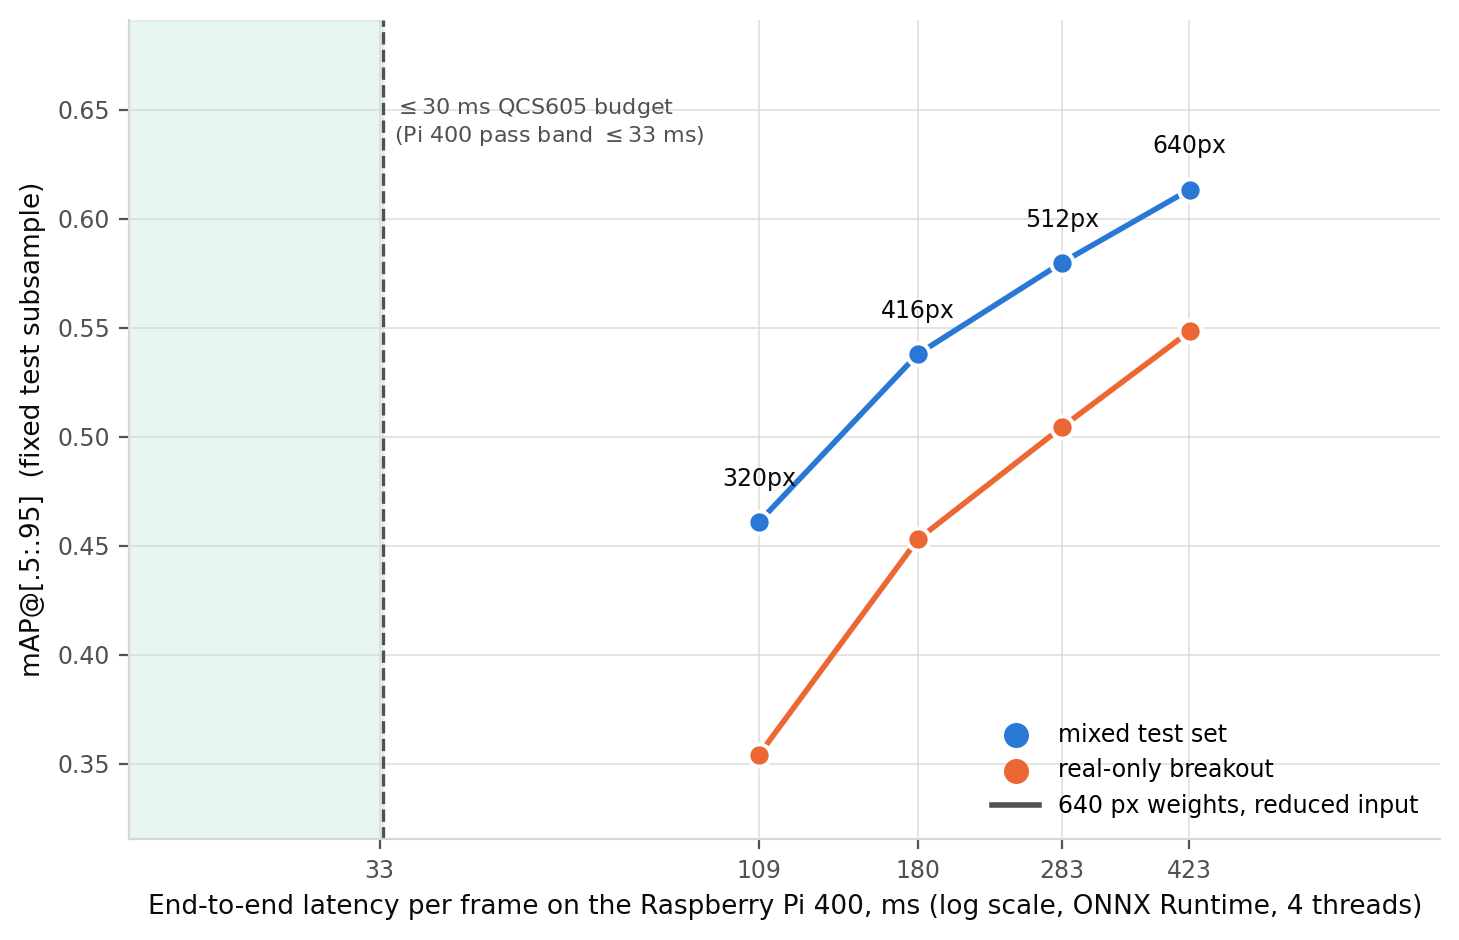
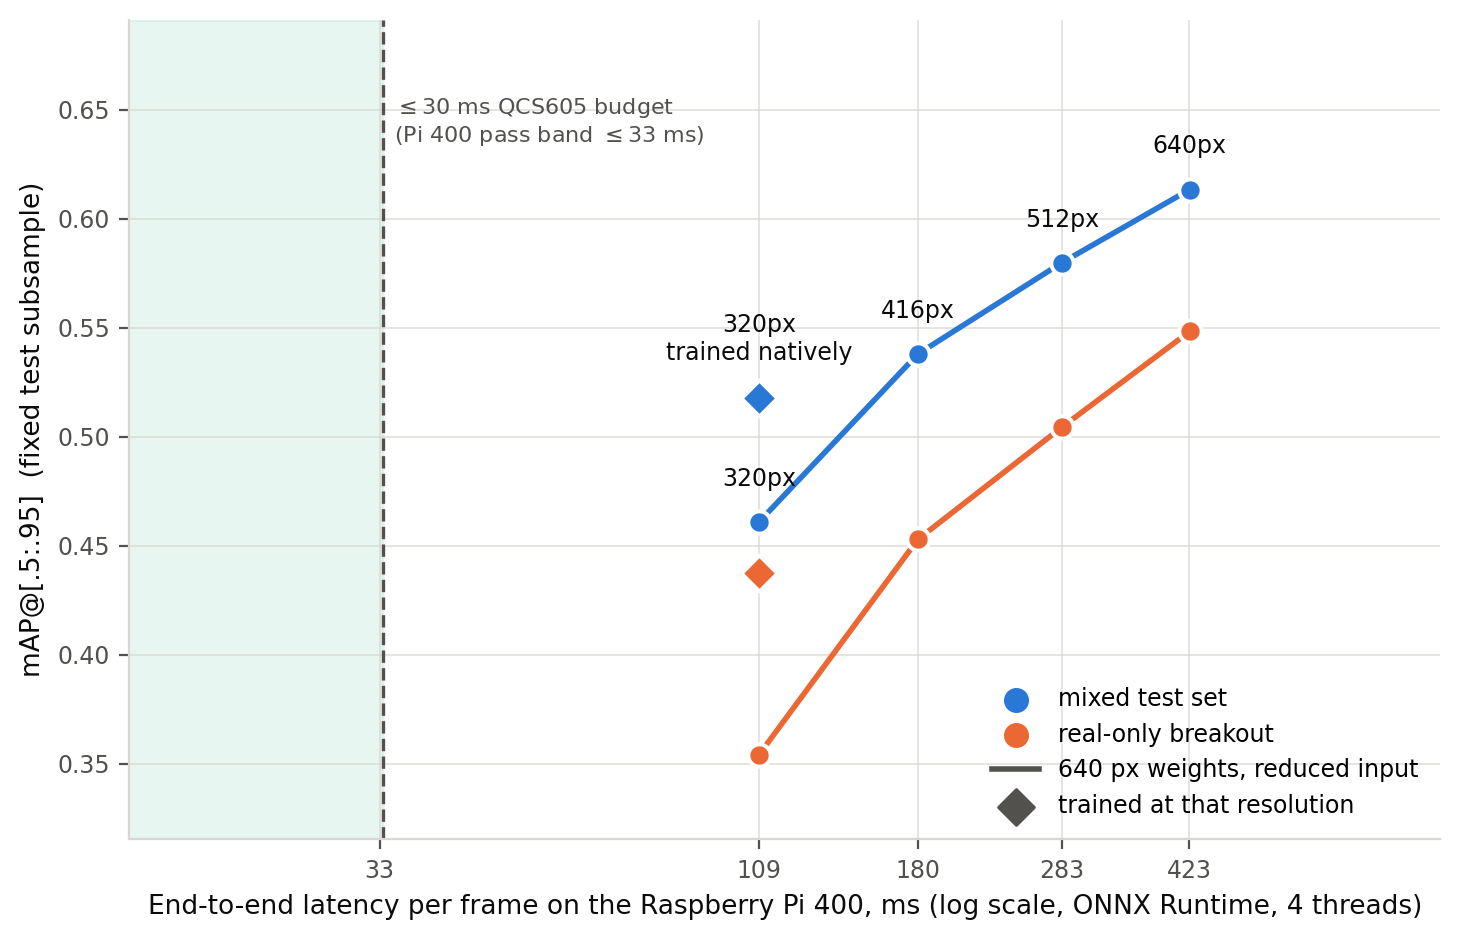
feat: input-resolution study complete — native 320px training recovers 43% of the penalty
Arm 2 finished. The 320px run converged at epoch 168 (val mAP50_95 0.6714) and
was scored on the full test set and on Arm 1's fixed 8k subsample.

Same subsample, all three points:

                                 real mAP   vs 640px   W_e2e    RSS
  640px weights @640              0.5483        -      423.5ms  284MB
  640px weights @320 (no retrain) 0.3541     -35.4%    109.0ms  226MB
  320px-TRAINED  @320             0.4375     -20.2%    109.0ms  226MB

Resolution-native training recovers 43% of the resolution penalty at identical
latency. Full-test headline (comparable to the campaign's other models): mixed
0.5084 / real 0.4197 against the 640px baseline's 0.5989 / 0.5292 — -15.1%
mixed, -20.7% real for a 3.9x latency reduction and 58 MB less peak RSS.

Corrects an optimistic projection: the validation gap ran 13.9% -> 10.4% over
epochs 20-100 and was extrapolated to a ~10% final gap. The test set gives
-20.2%. Validation here is the mixed set with a different class mix, so it is
systematically the easier measure — the thesis quotes the test figures, and the
validation trajectory is evidence of convergence only.

Arm 2 is scored twice on purpose: evaluation/ is the full-test headline,
resolution_sweep_subsample/ is the fixed-8k scoring the curve needs, since
Arm 1's points use that subsample and mixing denominators in one figure would
be meaningless. 6-resolution_report.py prefers the subsample report and warns
if it falls back.

Changed region(s): [[0.6785, 0.7096, 0.987, 0.8947], [0.4626, 0.3394, 0.586, 0.4319], [0.4935, 0.5862, 0.5243, 0.617]]

diff --git a/scripts/benchmark/6-resolution_report.py b/scripts/benchmark/6-resolution_report.py
@@ -110,7 +110,16 @@ def build_rows(sweep_run: Path, native_run: Path | None) -> list[dict]:
         rows.append(row)
 
     if native_run is not None:
-        p = native_run / "evaluation" / "evaluation_report.json"
+        # Prefer the subsample scoring: Arm 1's points are on the fixed 8k
+        # proportional subsample, and mixing a full-test Arm 2 point into the same
+        # figure would compare two different denominators. The run's own
+        # evaluation/ (full test) stays the headline figure quoted elsewhere.
+        p = native_run / "resolution_sweep_subsample" / "evaluation_report.json"
+        if not p.exists():
+            p = native_run / "evaluation" / "evaluation_report.json"
+            if p.exists():
+                print(f"    ! {native_run.name}: no subsample scoring, falling back to "
+                      f"the FULL-TEST report — not comparable to Arm 1's subsample points")
         if not p.exists():
             print(f"    ! --native-run given but {p} does not exist yet — Arm 2 omitted")
         else:

diff --git a/docs/plans/2026-09-20_input-resolution-optimization-study.md b/docs/plans/2026-09-20_input-resolution-optimization-study.md
@@ -199,10 +199,38 @@ Produces the accuracy-vs-latency curve from the **existing**
 | 1 — probe + go/no-go | ✅ done | 2026-09-20 | bs32 measured 124 h → **fail**; re-specced to bs128 + lr×2 + eval-every-2 → **49 h, go** |
 | 2 — 320 px run | ✅ done | 2026-09-23 | `yolo26n-res320-bs128-20260920-165602`; **converged, best val mAP50_95=0.6714 @ epoch 168**, stopped after 186 |
 | 3 — 72 h gate | ✅ passed | 2026-09-23 | metric peaked @168 and declined through 186 → **converged, keep**; full test eval running |
-| 4 — write-up | ⬜ not started | | §4.3 subsection, figure |
+| 4 — write-up | ⬜ not started | | §4.3 subsection — numbers + figure now complete |
 | Incidental — `MAP_SOURCES` fix | ✅ done | 2026-09-20 | repointed to 0.599/0.529; `embedded_latency_vs_map.png` regenerated |
 
 ### Deviations from the plan
+
+- **2026-09-23 11:15 — STUDY COMPLETE. Both arms, same fixed 8k subsample:**
+
+  | | real mAP | vs 640 px | W_e2e | RSS |
+  |---|---:|---:|---:|---:|
+  | 640 px weights @ 640 | 0.5483 | — | 423.5 ms | 284 MB |
+  | 640 px weights @ 320 (no retraining) | 0.3541 | −35.4 % | 109.0 ms | 226 MB |
+  | **320 px-trained @ 320** | **0.4375** | **−20.2 %** | **109.0 ms** | **226 MB** |
+
+  **Resolution-native training recovers 43 % of the penalty at identical latency.**
+
+  Headline figures on the **full** test set (directly comparable to the other models'
+  published numbers): 320 px-trained scores **mixed 0.5084 / real 0.4197**, against the
+  640 px baseline's 0.5989 / 0.5292 — **−15.1 % mixed, −20.7 % real for a 3.9×
+  latency reduction**.
+- **2026-09-23 — correction: the val-based projection was optimistic.** At epochs
+  20–100 the validation gap to the 640 px baseline ran 13.9 % → 10.4 %, and the
+  2026-09-21 entry extrapolated "~10 % final gap, ~72 % of the penalty recovered".
+  The test set gives **−20.2 %** (subsample real) and **43 %** recovered. Validation
+  here is the *mixed* set and its class mix differs from test, so it is systematically
+  the easier measure. **The thesis must quote the test figures**; the validation
+  trajectory is evidence of convergence only, not a predictor of the test gap.
+- **2026-09-23 — Arm 2 scored twice, deliberately.** `evaluation/` holds the full-test
+  scoring (the headline, comparable to every other model in the campaign);
+  `resolution_sweep_subsample/` holds the fixed-8k scoring used for the curve, because
+  Arm 1's four points are on that subsample and mixing denominators in one figure
+  would be meaningless. `6-resolution_report.py` now prefers the subsample report and
+  warns loudly if it falls back to the full-test one.
 
 - **2026-09-23 09:42 — the run converged and turned over; stopped after epoch 186.**
   Validation peaked at **epoch 168 (mAP50_95 = 0.6714)** and declined monotonically

diff --git a/reports/resolution_study/resolution_tradeoff.md b/reports/resolution_study/resolution_tradeoff.md
@@ -16,7 +16,6 @@ must not be quoted alongside full-test figures.
 | no-retraining | 512 | 4.33 | 269.4 | 283.1 | 241–255 | 260 | 0.5799 | 0.5044 | -0.0439 (-8.0 %) |
 | no-retraining | 416 | 2.85 | 172.1 | 179.8 | 153–162 | 241 | 0.5379 | 0.4529 | -0.0954 (-17.4 %) |
 | no-retraining | 320 | 1.68 | 102.5 | 109.0 | 93–98 | 226 | 0.4609 | 0.3541 | -0.1942 (-35.4 %) |
+| resolution-native | 320 | 1.68 | 102.5 | 109.0 | 93–98 | 226 | 0.5175 | 0.4375 | -0.1109 (-20.2 %) |
 
 Design targets: **≤30 ms** on the QCS605 (Pi 400 pass band ≤33–35 ms) and **≤500 MB**. Every row meets the memory budget; none meets the latency budget.
-
-**Arm 2 (resolution-native training) is not in this table yet.** Until it lands, every row is the 640-px-trained checkpoint simply run at a smaller input, which is an upper bound on the accuracy cost of reducing resolution, not the cost after retraining.
